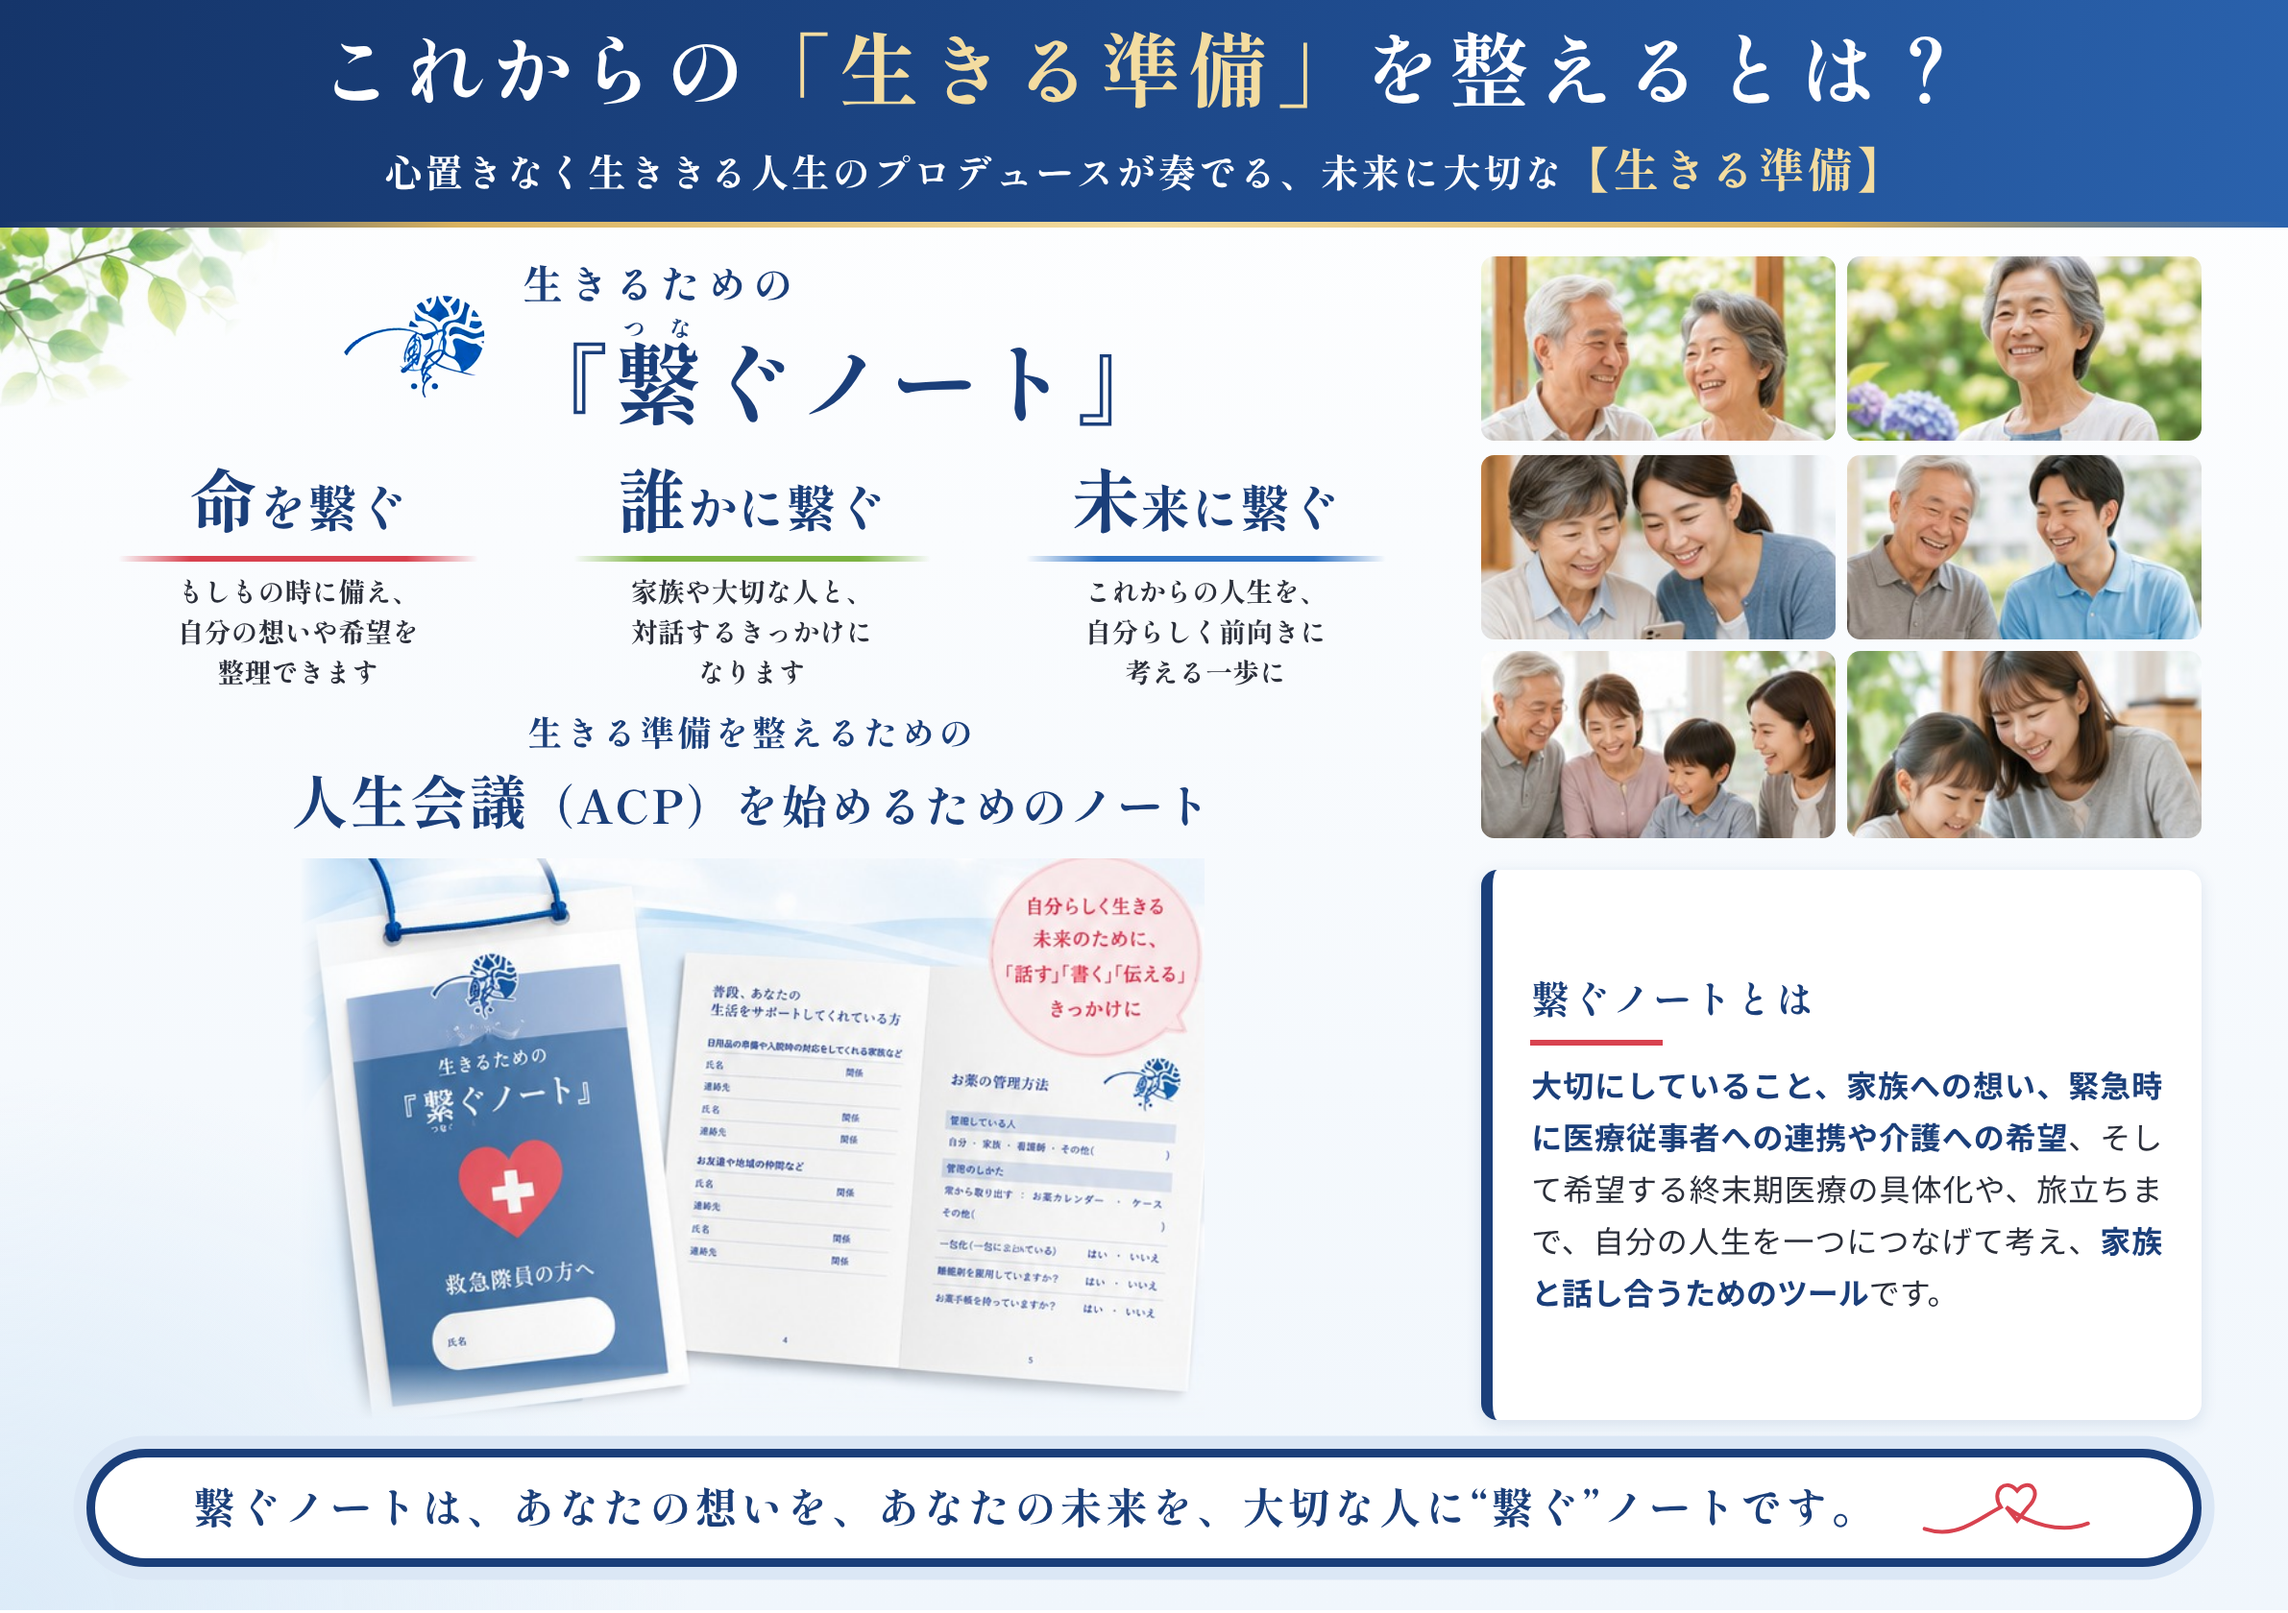
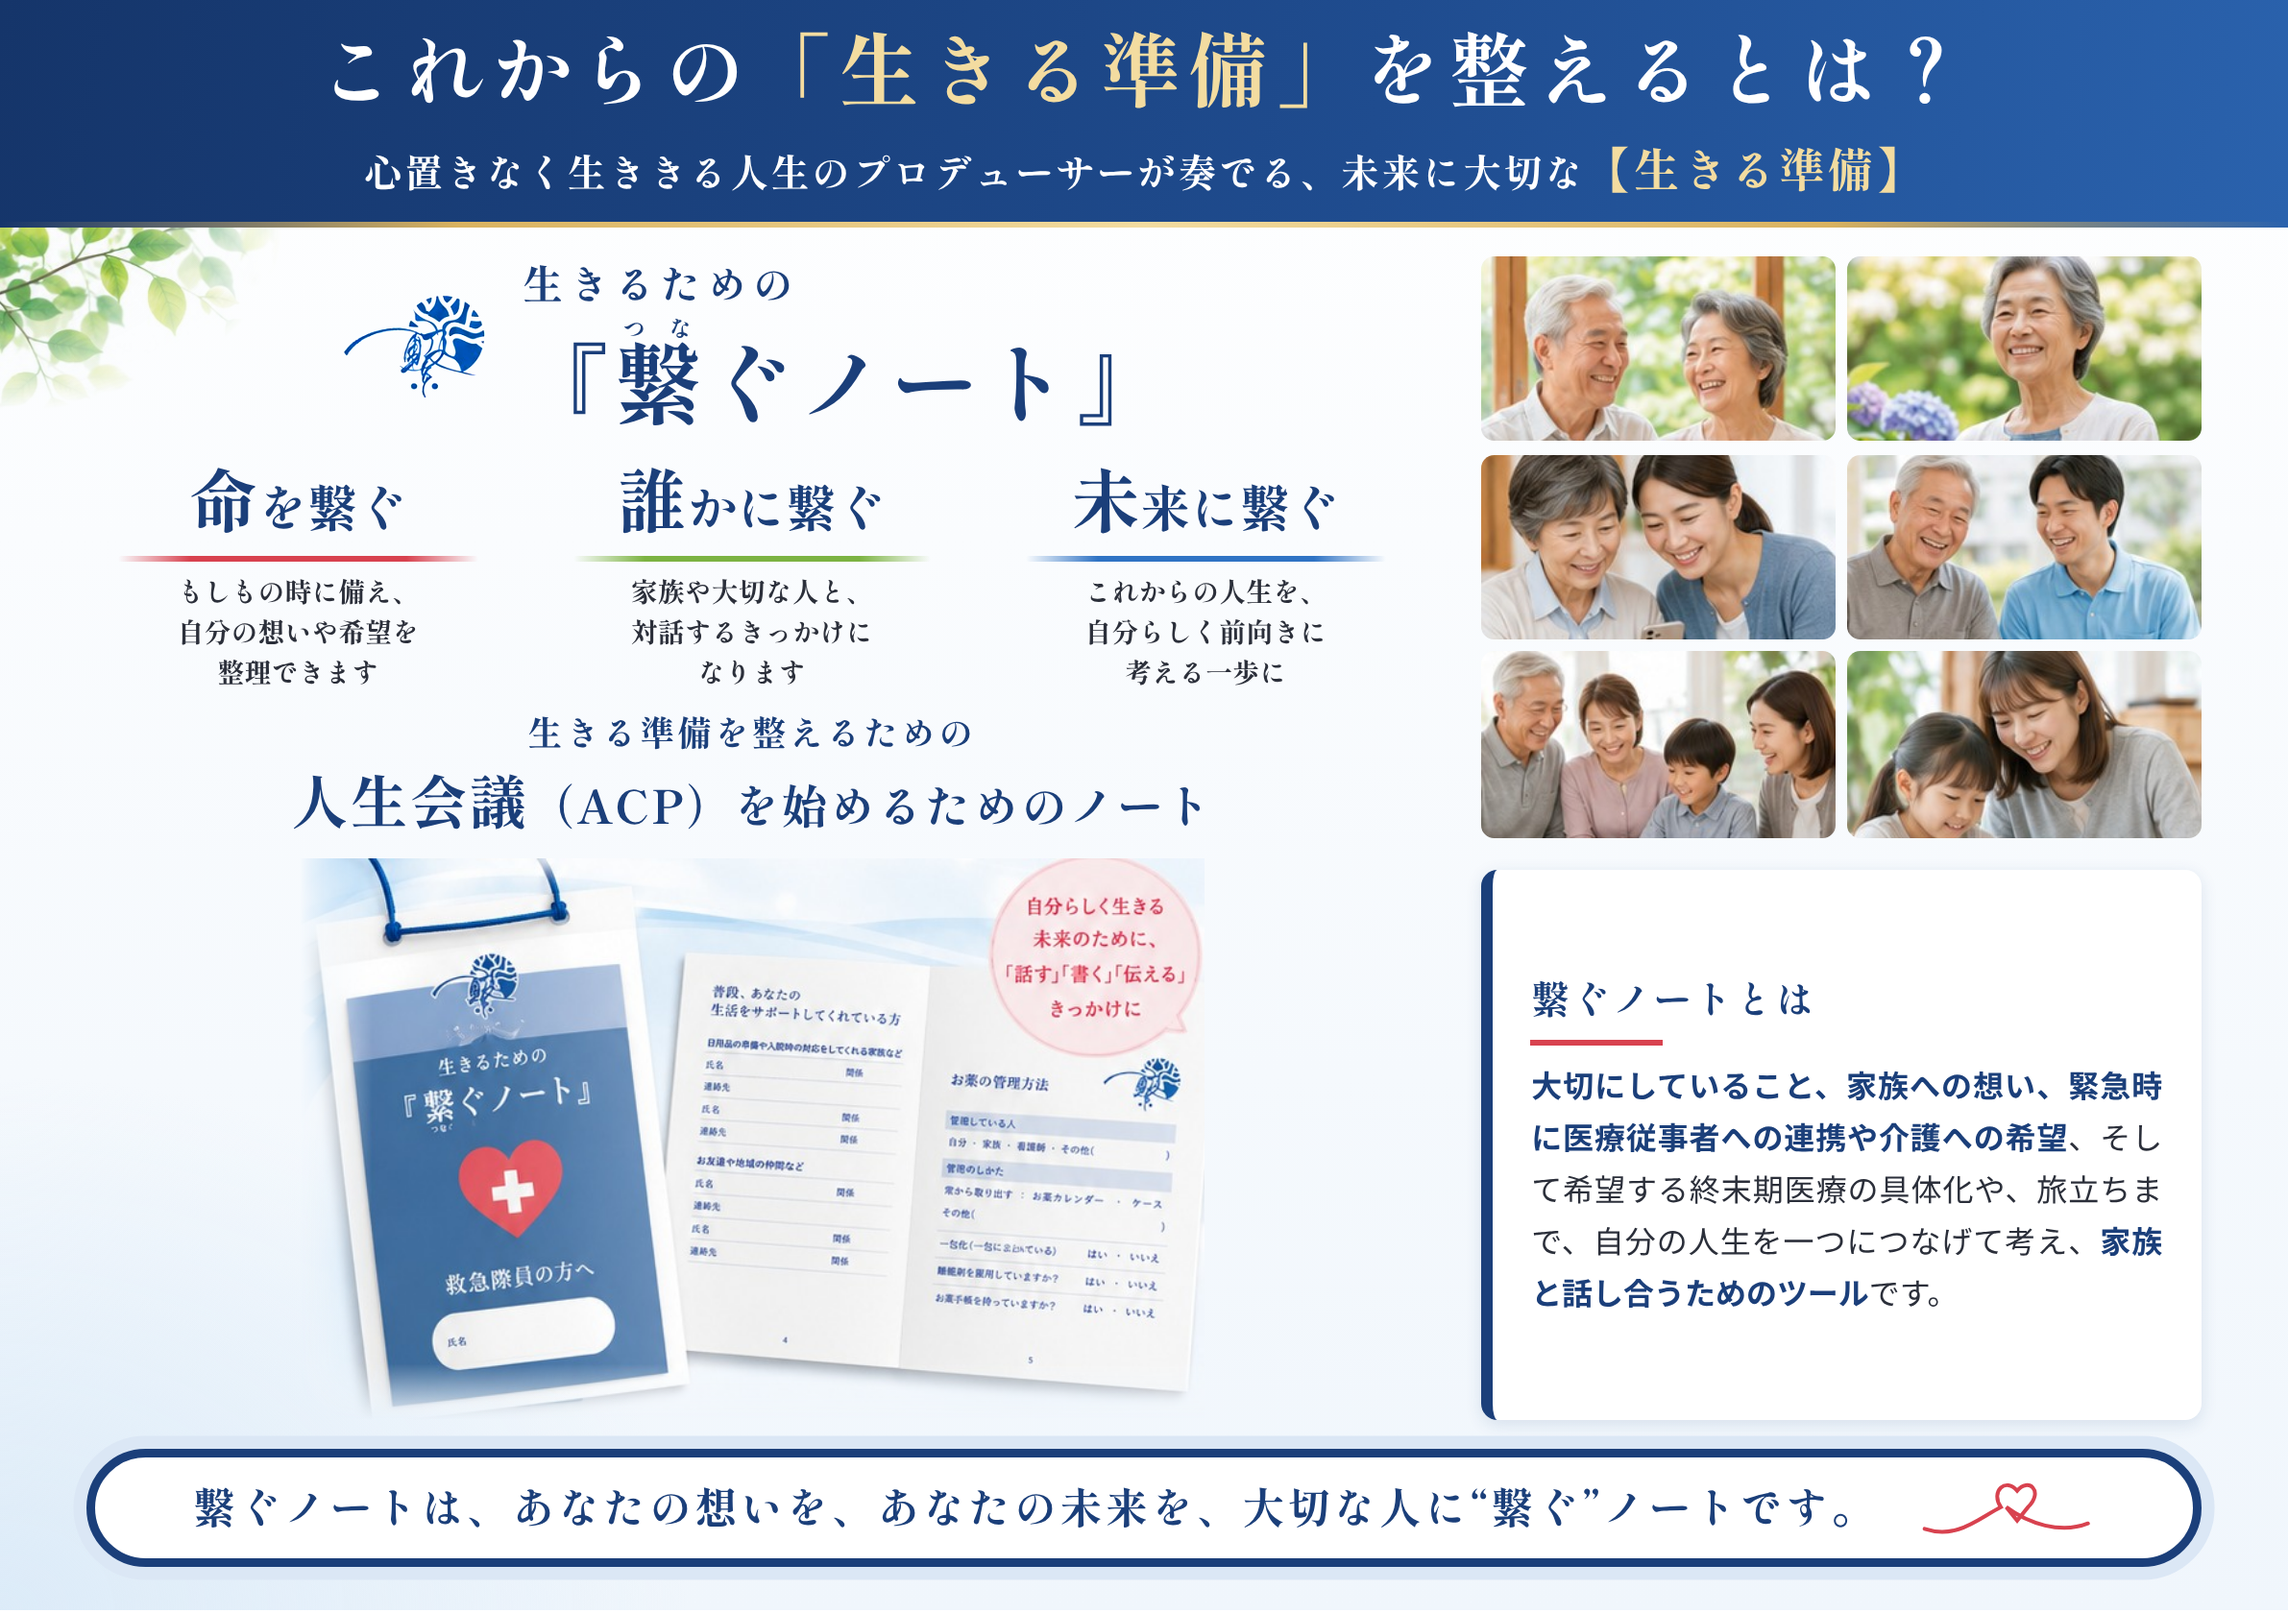
サブタイトルを「人生のプロデューサーが奏でる」に修正
Claude-Session: https://claude.ai/code/session_01M61h7TfnMPkHUADaCRkJ3F

Changed region(s): [[0.1553, 0.0929, 0.8388, 0.1238]]

diff --git a/flyer/tsunagu-note-a5.html b/flyer/tsunagu-note-a5.html
@@ -105,7 +105,7 @@
 <div class="sheet">
   <header class="event">
     <h2>これからの<em>「生きる準備」</em>を整えるとは？</h2>
-    <p>心置きなく生ききる人生のプロデュースが奏でる、未来に大切な<b>【生きる準備】</b></p>
+    <p>心置きなく生ききる人生のプロデューサーが奏でる、未来に大切な<b>【生きる準備】</b></p>
   </header>
   <img class="leaves" src="img/leaves.jpg" alt="">
 
